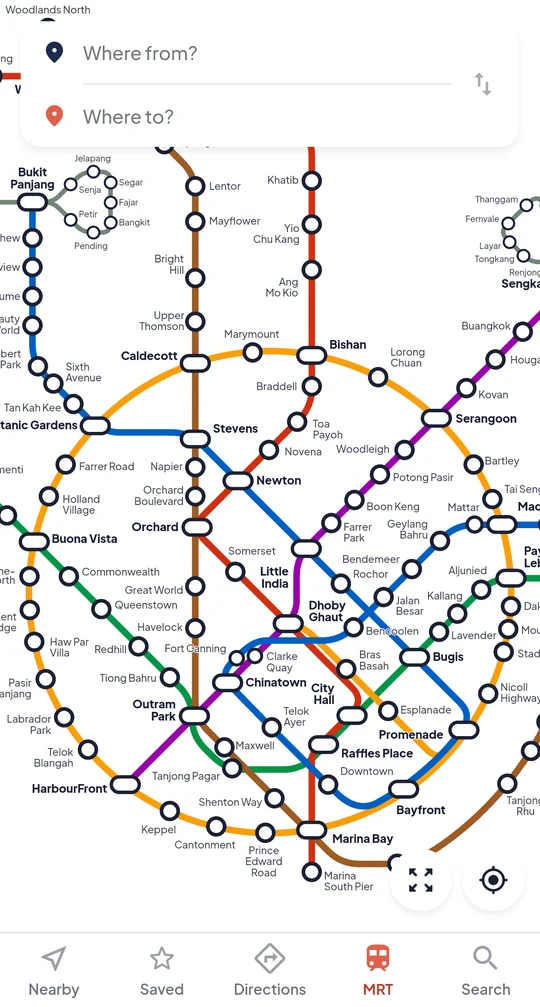
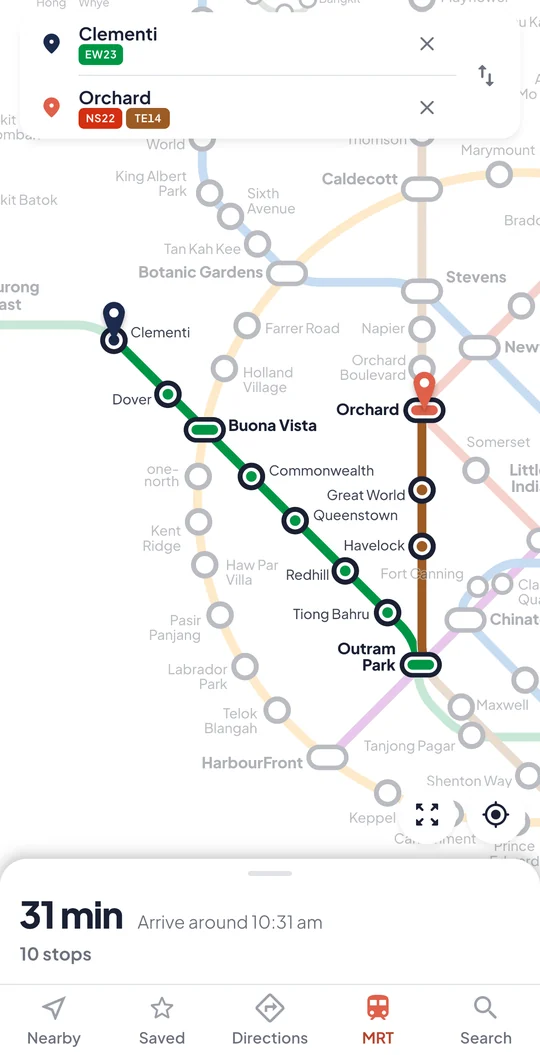
Launch: store links instead of the beta, new screenshots
The app is live on the App Store and Google Play. Home: App Store and
Google Play buttons in the hero and the closing card, screenshots from
the 2.46.1 store pack. /beta/ becomes the download page and keeps its
address, because tinyurl.com/jiobeta, jiotransit-beta, the QR code and
TikTok bio point there; the TestFlight and Play testing betas stay as a
one-line hint. The nav says Download.

Claude-Session: https://claude.ai/code/session_01MbAsUY8fpTKJBqKpYoKECS

diff --git a/beta/index.html b/beta/index.html
@@ -5,10 +5,10 @@
 <meta name="viewport" content="width=device-width,initial-scale=1,viewport-fit=cover">
 <meta name="theme-color" content="#F5F5F7" media="(prefers-color-scheme: light)">
 <meta name="theme-color" content="#0F1320" media="(prefers-color-scheme: dark)">
-<title>Try the JioTransit beta</title>
-<meta name="description" content="Live bus timings, MRT routes, and an alert before your stop. Free beta for iPhone and Android, no sign-up.">
-<meta property="og:title" content="Try the JioTransit beta">
-<meta property="og:description" content="Live bus timings, MRT routes, and an alert before your stop. Free beta for iPhone and Android, no sign-up.">
+<title>Download JioTransit</title>
+<meta name="description" content="Live bus timings, MRT routes, and an alert before your stop. Free on the App Store and Google Play, no sign-up.">
+<meta property="og:title" content="Download JioTransit">
+<meta property="og:description" content="Live bus timings, MRT routes, and an alert before your stop. Free on the App Store and Google Play, no sign-up.">
 <meta property="og:image" content="https://shengxue97.github.io/jiotransit-web/assets/getoff.jpg">
 <meta property="og:url" content="https://shengxue97.github.io/jiotransit-web/beta/">
 <meta name="twitter:card" content="summary_large_image">
@@ -24,14 +24,14 @@
 <header class="site-header">
   <div class="wrap">
     <a class="brand" href="../"><img src="../assets/icon.png" width="34" height="34" alt=""><span>JioTransit</span></a>
-    <nav class="site-nav" aria-label="Site"><a href="../">Home</a><a href="../beta/" aria-current="page">Beta</a><a href="../support/">Support</a><a href="../privacy/">Privacy</a></nav>
+    <nav class="site-nav" aria-label="Site"><a href="../">Home</a><a href="../beta/" aria-current="page">Download</a><a href="../support/">Support</a><a href="../privacy/">Privacy</a></nav>
   </div>
 </header>
 
 <main class="wrap">
   <section class="beta-intro">
     <h1>Never miss your stop again.</h1>
-    <p>Live bus timings, MRT routes, and an alert before your stop. Free beta, no sign-up.</p>
+    <p>Live bus timings, MRT routes, and an alert before your stop. Free, no sign-up.</p>
   </section>
 
   <div class="segments" role="tablist" aria-label="Your phone">
@@ -49,23 +49,17 @@
       </li>
       <li class="stop">
         <span class="dot"></span>
-        <h2>Get TestFlight</h2>
-        <p>Apple's free app for trying apps before they launch.</p>
-        <a class="btn btn-plate" href="https://apps.apple.com/app/testflight/id899247664">Get TestFlight</a>
-      </li>
-      <li class="stop">
-        <span class="dot"></span>
-        <h2>Join the beta</h2>
-        <p>Opens your invite in TestFlight. Tap Accept, then Install.</p>
-        <a class="btn btn-accent" href="https://testflight.apple.com/join/M5SRZeEk">Join the iPhone beta</a>
+        <h2>Get it from the App Store</h2>
+        <p>Free, with an optional one-time purchase to remove ads.</p>
+        <a class="btn btn-accent" href="https://apps.apple.com/sg/app/jiotransit-sg-bus-mrt/id6819054000">Open the App Store</a>
       </li>
       <li class="stop end">
         <span class="dot"><svg viewBox="0 0 12 12" fill="none" stroke="currentColor" stroke-width="2.4" stroke-linecap="round" stroke-linejoin="round"><path d="M2.5 6.3 5 8.7l4.5-5.2"/></svg></span>
         <h2>You're in</h2>
-        <p>JioTransit appears on your home screen. Send feedback any time from TestFlight.</p>
+        <p>Find a stop, star your buses, and set an alert before your stop.</p>
       </li>
     </ol>
-    <p class="hint">If TestFlight says this beta isn't open yet, try again tomorrow.</p>
+    <p class="hint">Want new features before everyone else? <a href="https://testflight.apple.com/join/M5SRZeEk">Join the iPhone beta</a> on TestFlight.</p>
   </section>
 
   <section class="trip" id="android" role="tabpanel" aria-labelledby="tab-android" hidden>
@@ -78,28 +72,23 @@
       </li>
       <li class="stop">
         <span class="dot"></span>
-        <h2>Join the tester group</h2>
-        <p>Tap Join group, using the Google account on your phone.</p>
-        <a class="btn btn-plate" href="https://groups.google.com/g/jiotransit-testers">Join the tester group</a>
-      </li>
-      <li class="stop">
-        <span class="dot"></span>
-        <h2>Install from Google Play</h2>
-        <p>Tap Become a tester, then download JioTransit.</p>
-        <a class="btn btn-accent" href="https://play.google.com/apps/testing/com.nimshade.jiotransit">Install JioTransit</a>
+        <h2>Get it from Google Play</h2>
+        <p>Free, with an optional one-time purchase to remove ads.</p>
+        <a class="btn btn-accent" href="https://play.google.com/store/apps/details?id=com.nimshade.jiotransit">Open Google Play</a>
       </li>
       <li class="stop end">
         <span class="dot"><svg viewBox="0 0 12 12" fill="none" stroke="currentColor" stroke-width="2.4" stroke-linecap="round" stroke-linejoin="round"><path d="M2.5 6.3 5 8.7l4.5-5.2"/></svg></span>
         <h2>You're in</h2>
-        <p>Please keep it installed for 14 days. That's what Google needs before JioTransit can launch.</p>
+        <p>Find a stop, star your buses, and set an alert before your stop.</p>
       </li>
     </ol>
+    <p class="hint">Want new features before everyone else? Join the <a href="https://groups.google.com/g/jiotransit-testers">tester group</a>, then <a href="https://play.google.com/apps/testing/com.nimshade.jiotransit">become a tester</a>.</p>
   </section>
 </main>
 
 <footer class="site-footer">
   <div class="wrap">
-    <div class="links"><a href="../">Home</a><a href="../beta/">Beta</a><a href="../support/">Support</a><a href="../privacy/">Privacy</a><a href="mailto:xuecoding@gmail.com">xuecoding@gmail.com</a></div>
+    <div class="links"><a href="../">Home</a><a href="../beta/">Download</a><a href="../support/">Support</a><a href="../privacy/">Privacy</a><a href="mailto:xuecoding@gmail.com">xuecoding@gmail.com</a></div>
     <p>JioTransit is made in Singapore by Sim Sheng Xue (NimShade). Bus times come from LTA DataMall; JioTransit is independent and not affiliated with LTA.</p>
   </div>
 </footer>

diff --git a/index.html b/index.html
@@ -6,9 +6,9 @@
 <meta name="theme-color" content="#F5F5F7" media="(prefers-color-scheme: light)">
 <meta name="theme-color" content="#0F1320" media="(prefers-color-scheme: dark)">
 <title>JioTransit: Singapore bus timings and get-off alerts</title>
-<meta name="description" content="Live bus timings, MRT routes, and an alert before your stop. Free beta for iPhone and Android, no sign-up.">
+<meta name="description" content="Live bus timings, MRT routes, and an alert before your stop. Free on the App Store and Google Play, no sign-up.">
 <meta property="og:title" content="JioTransit: never miss your stop again">
-<meta property="og:description" content="Live bus timings, MRT routes, and an alert before your stop. Free beta for iPhone and Android, no sign-up.">
+<meta property="og:description" content="Live bus timings, MRT routes, and an alert before your stop. Free on the App Store and Google Play, no sign-up.">
 <meta property="og:image" content="https://shengxue97.github.io/jiotransit-web/assets/getoff.jpg">
 <meta property="og:url" content="https://shengxue97.github.io/jiotransit-web/">
 <meta name="twitter:card" content="summary_large_image">
@@ -24,7 +24,7 @@
 <header class="site-header">
   <div class="wrap">
     <a class="brand" href="./"><img src="assets/icon.png" width="34" height="34" alt=""><span>JioTransit</span></a>
-    <nav class="site-nav" aria-label="Site"><a href="./" aria-current="page">Home</a><a href="beta/">Beta</a><a href="support/">Support</a><a href="privacy/">Privacy</a></nav>
+    <nav class="site-nav" aria-label="Site"><a href="./" aria-current="page">Home</a><a href="beta/">Download</a><a href="support/">Support</a><a href="privacy/">Privacy</a></nav>
   </div>
 </header>
 
@@ -34,12 +34,12 @@
       <h1>Never miss your stop again.</h1>
       <p class="lede">Live bus timings, MRT routes, and an alert before your stop, even with your phone locked. Free, no sign-up.</p>
       <div class="actions">
-        <a class="btn btn-accent" href="beta/">Join the free beta</a>
-        <span class="note">On iPhone and Android</span>
+        <a class="btn btn-accent" href="https://apps.apple.com/sg/app/jiotransit-sg-bus-mrt/id6819054000">Download on the App Store</a>
+        <a class="btn btn-plate" href="https://play.google.com/store/apps/details?id=com.nimshade.jiotransit">Get it on Google Play</a>
       </div>
     </div>
     <div class="hero-visual">
-      <img class="shot" src="assets/ride.webp" width="540" height="1007" alt="Bus 29's route on the map, with your stop marked">
+      <img class="shot" src="assets/ride.webp" width="540" height="1055" alt="On Bus 29 to Changi Village Ter: your stop is next, press the bell now">
       <img class="widget" src="assets/getoff.webp" width="900" height="337" alt="Lock screen: get off at Changi Village Ter, 4 stops left">
     </div>
   </section>
@@ -54,7 +54,7 @@
         <li>Your favourite buses first</li>
       </ul>
     </div>
-    <figure><img class="shot" src="assets/saved.webp" width="540" height="1098" loading="lazy" alt="Saved stops: Clementi Int with Bus 147 and Bus 156 starred, Jurong Town Hall Int, and Upp Changi Stn open with every bus counting down"></figure>
+    <figure><img class="shot" src="assets/saved.webp" width="540" height="1055" loading="lazy" alt="Saved stops: Changi Village Ter with Bus 2, Bus 29 and Bus 109 starred and counting down"></figure>
   </section>
 
   <section class="feature flip">
@@ -67,7 +67,7 @@
         <li>Home and Work one tap away</li>
       </ul>
     </div>
-    <figure><img class="shot" src="assets/directions.webp" width="540" height="1007" loading="lazy" alt="Directions from Clementi to NTU: the East West Line to Boon Lay, then Bus 199"></figure>
+    <figure><img class="shot" src="assets/directions.webp" width="540" height="1055" loading="lazy" alt="Directions from Clementi to Nanyang Technological University: 2 routes, 43 min, with fares"></figure>
   </section>
 
   <section class="feature">
@@ -75,7 +75,7 @@
       <h2>The whole MRT and LRT map</h2>
       <p>Every line and station in one clear map, even without a signal. Plan a trip right from it.</p>
     </div>
-    <figure><img class="shot" src="assets/mrt.webp" width="540" height="1007" loading="lazy" alt="Singapore's MRT map in JioTransit"></figure>
+    <figure><img class="shot" src="assets/mrt.webp" width="540" height="1055" loading="lazy" alt="Singapore's MRT map in JioTransit, with a trip from Clementi to Orchard"></figure>
   </section>
 
   <section class="extras">
@@ -92,16 +92,19 @@
 
   <section class="cta">
     <div>
-      <h2>Try it before it launches.</h2>
-      <p>The beta is free on iPhone and Android.</p>
+      <h2>Get JioTransit free.</h2>
+      <p>On iPhone and Android. No sign-up.</p>
     </div>
-    <a class="btn btn-accent" href="beta/">Join the free beta</a>
+    <div class="cta-actions">
+      <a class="btn btn-accent" href="https://apps.apple.com/sg/app/jiotransit-sg-bus-mrt/id6819054000">Download on the App Store</a>
+      <a class="btn btn-accent" href="https://play.google.com/store/apps/details?id=com.nimshade.jiotransit">Get it on Google Play</a>
+    </div>
   </section>
 </main>
 
 <footer class="site-footer">
   <div class="wrap">
-    <div class="links"><a href="./">Home</a><a href="beta/">Beta</a><a href="support/">Support</a><a href="privacy/">Privacy</a><a href="mailto:xuecoding@gmail.com">xuecoding@gmail.com</a></div>
+    <div class="links"><a href="./">Home</a><a href="beta/">Download</a><a href="support/">Support</a><a href="privacy/">Privacy</a><a href="mailto:xuecoding@gmail.com">xuecoding@gmail.com</a></div>
     <p>JioTransit is made in Singapore by Sim Sheng Xue (NimShade). Bus times come from LTA DataMall; JioTransit is independent and not affiliated with LTA.</p>
   </div>
 </footer>

diff --git a/assets/site.css b/assets/site.css
@@ -88,7 +88,6 @@ p{text-wrap:pretty}
 .hero h1{font-weight:800;font-size:clamp(38px,9.5vw,68px);line-height:1.02;letter-spacing:-.035em;margin:0 0 16px;max-width:12ch}
 .hero .lede{font-size:clamp(17px,2.2vw,20px);color:var(--text-2);margin:0 0 28px;max-width:30em}
 .hero .actions{display:flex;flex-wrap:wrap;align-items:center;gap:12px 20px}
-.hero .note{color:var(--text-2);font-size:15px}
 .hero-visual{position:relative;margin:40px auto 0;max-width:420px;padding-bottom:56px}
 .hero-visual .shot{width:76%;margin:0 auto}
 .hero-visual .widget{position:absolute;left:0;bottom:0;width:100%}
@@ -115,7 +114,7 @@ p{text-wrap:pretty}
 .cta{margin-top:72px;background:var(--plate);color:var(--on-plate);border-radius:28px;padding:36px 24px;display:grid;gap:20px}
 .cta h2{font-weight:800;font-size:clamp(26px,4vw,40px);line-height:1.1;letter-spacing:-.025em;margin:0}
 .cta p{margin:6px 0 0;color:var(--plate-text-2)}
-.cta .btn{justify-self:start}
+.cta-actions{display:flex;flex-wrap:wrap;gap:12px}
 
 /* tablet */
 @media (min-width:720px){
@@ -126,7 +125,7 @@ p{text-wrap:pretty}
   .feature.flip figure{order:-1}
   .extras ul{grid-template-columns:1fr 1fr;gap:28px 40px;padding:32px}
   .cta{grid-template-columns:1fr auto;align-items:center;padding:40px}
-  .cta .btn{justify-self:end}
+  .cta-actions{justify-content:flex-end}
 }
 /* desktop */
 @media (min-width:1024px){
@@ -143,7 +142,7 @@ p{text-wrap:pretty}
 }
 
 /* =========================================================
-   BETA
+   DOWNLOAD (beta/ keeps its address: old links and QR codes point here)
    ========================================================= */
 .beta-intro{padding:28px 0 0;max-width:640px}
 .beta-intro h1{font-weight:800;font-size:clamp(34px,7vw,56px);line-height:1.04;letter-spacing:-.03em;margin:0 0 10px}
@@ -168,6 +167,7 @@ p{text-wrap:pretty}
 .stop .btn{display:flex;width:100%}
 .stop.qr{display:none}
 .qr-img{width:132px;height:132px;background:#fff;padding:8px;border-radius:12px;border:1px solid var(--divider)}
+.hint a{color:inherit;font-weight:700}
 .hint{font-size:14px;color:var(--text-2);background:var(--muted);border-radius:12px;padding:10px 12px;margin:4px 0 18px}
 
 @media (min-width:720px){

diff --git a/privacy/index.html b/privacy/index.html
@@ -24,7 +24,7 @@
 <header class="site-header">
   <div class="wrap">
     <a class="brand" href="../"><img src="../assets/icon.png" width="34" height="34" alt=""><span>JioTransit</span></a>
-    <nav class="site-nav" aria-label="Site"><a href="../">Home</a><a href="../beta/">Beta</a><a href="../support/">Support</a><a href="../privacy/" aria-current="page">Privacy</a></nav>
+    <nav class="site-nav" aria-label="Site"><a href="../">Home</a><a href="../beta/">Download</a><a href="../support/">Support</a><a href="../privacy/" aria-current="page">Privacy</a></nav>
   </div>
 </header>
 
@@ -73,7 +73,7 @@
 
 <footer class="site-footer">
   <div class="wrap">
-    <div class="links"><a href="../">Home</a><a href="../beta/">Beta</a><a href="../support/">Support</a><a href="../privacy/">Privacy</a><a href="mailto:xuecoding@gmail.com">xuecoding@gmail.com</a></div>
+    <div class="links"><a href="../">Home</a><a href="../beta/">Download</a><a href="../support/">Support</a><a href="../privacy/">Privacy</a><a href="mailto:xuecoding@gmail.com">xuecoding@gmail.com</a></div>
     <p>JioTransit is made in Singapore by Sim Sheng Xue (NimShade). Bus times come from LTA DataMall; JioTransit is independent and not affiliated with LTA.</p>
   </div>
 </footer>

diff --git a/support/index.html b/support/index.html
@@ -24,7 +24,7 @@
 <header class="site-header">
   <div class="wrap">
     <a class="brand" href="../"><img src="../assets/icon.png" width="34" height="34" alt=""><span>JioTransit</span></a>
-    <nav class="site-nav" aria-label="Site"><a href="../">Home</a><a href="../beta/">Beta</a><a href="../support/" aria-current="page">Support</a><a href="../privacy/">Privacy</a></nav>
+    <nav class="site-nav" aria-label="Site"><a href="../">Home</a><a href="../beta/">Download</a><a href="../support/" aria-current="page">Support</a><a href="../privacy/">Privacy</a></nav>
   </div>
 </header>
 
@@ -50,7 +50,7 @@
 
 <footer class="site-footer">
   <div class="wrap">
-    <div class="links"><a href="../">Home</a><a href="../beta/">Beta</a><a href="../support/">Support</a><a href="../privacy/">Privacy</a><a href="mailto:xuecoding@gmail.com">xuecoding@gmail.com</a></div>
+    <div class="links"><a href="../">Home</a><a href="../beta/">Download</a><a href="../support/">Support</a><a href="../privacy/">Privacy</a><a href="mailto:xuecoding@gmail.com">xuecoding@gmail.com</a></div>
     <p>JioTransit is made in Singapore by Sim Sheng Xue (NimShade). Bus times come from LTA DataMall; JioTransit is independent and not affiliated with LTA.</p>
   </div>
 </footer>

diff --git a/README.md b/README.md
@@ -6,7 +6,9 @@ MRT routes, and an alert before your stop.
 **Live site:** https://shengxue97.github.io/jiotransit-web/
 
 - [Home](https://shengxue97.github.io/jiotransit-web/)
-- [Free beta](https://shengxue97.github.io/jiotransit-web/beta/) (iPhone via TestFlight, Android via Google Play testing)
+- [Download](https://shengxue97.github.io/jiotransit-web/beta/): App Store and Google Play. It keeps the `/beta/`
+  address because old links, QR codes and tinyurl.com/jiobeta point there; it
+  also links the TestFlight and Play testing betas.
 - [Support](https://shengxue97.github.io/jiotransit-web/support/)
 - [Privacy policy](https://shengxue97.github.io/jiotransit-web/privacy/)
 
